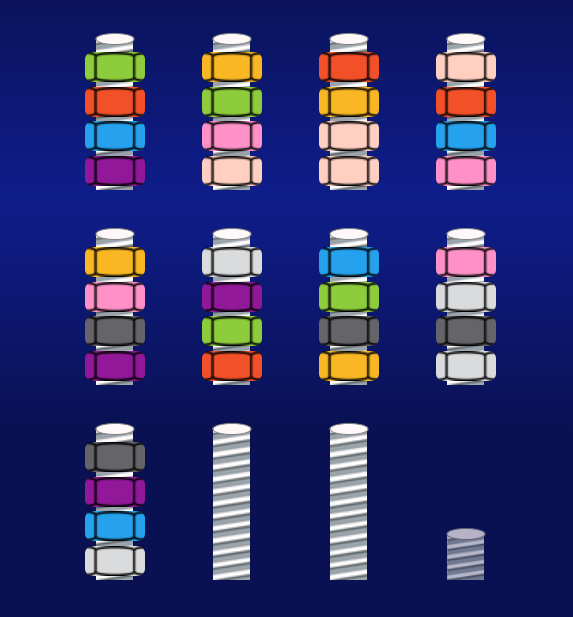
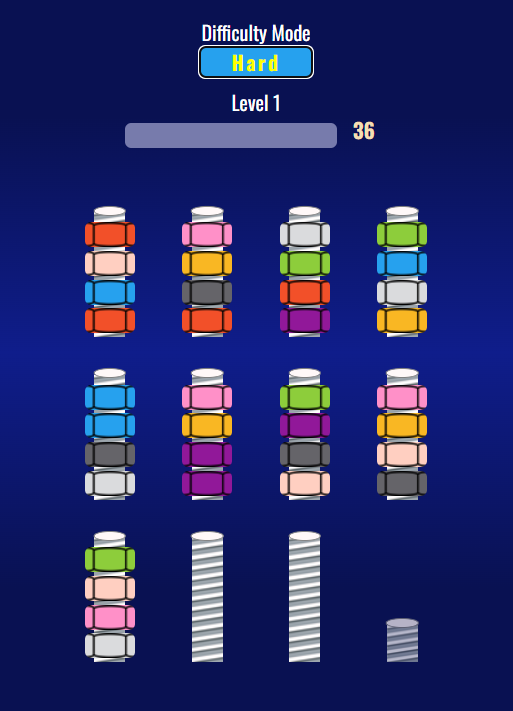
add description for bolts layout and color of nuts

diff --git a/README.md b/README.md
@@ -120,8 +120,16 @@ project desription (full)
 
 - **Game: Game area**
 
-- bolts layout and nuts (for different difficulty modes)
-- Extra bolt
+  <figure>
+    <img src="docs/site-screenshots/game-area-easy-large-screen.png" width="250px" height="250px">
+    <img src="docs/site-screenshots/game-area-medium-large-screen.png" width="250px" height="250px">
+    <img src="docs/site-screenshots/game-area-hard-large-screen.png" width="250px" height="250px">
+    <br>
+    <figcaption><strong><em>Game: Help button</em></strong></figcaption>
+  </figure>
+
+  - bolts layout and nuts (for different difficulty modes)
+  - Extra bolt
 
 
 - **Game: Game win modal**
